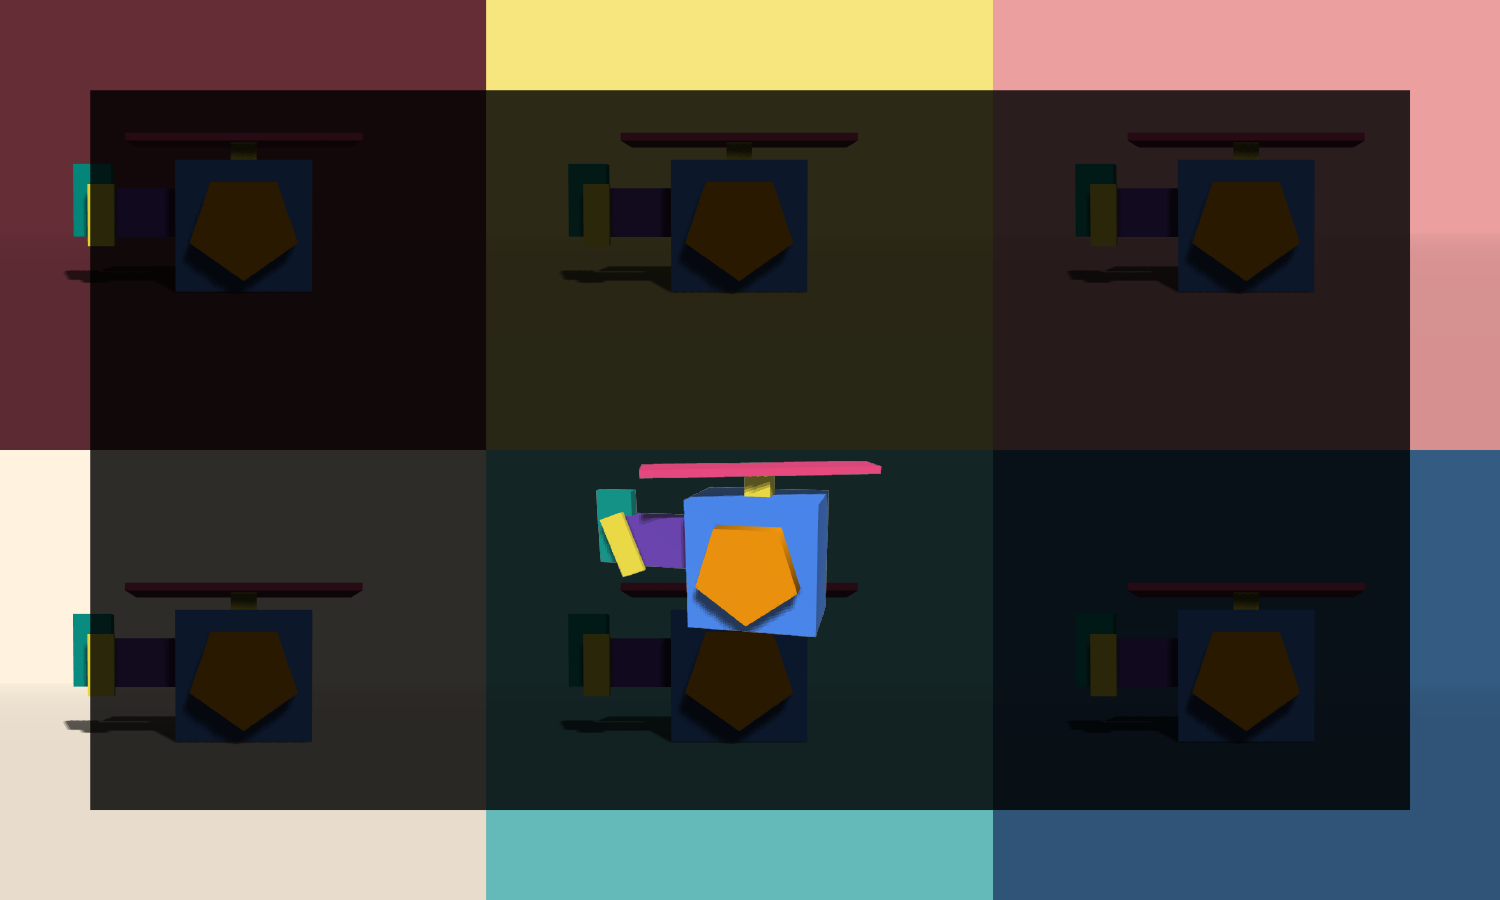
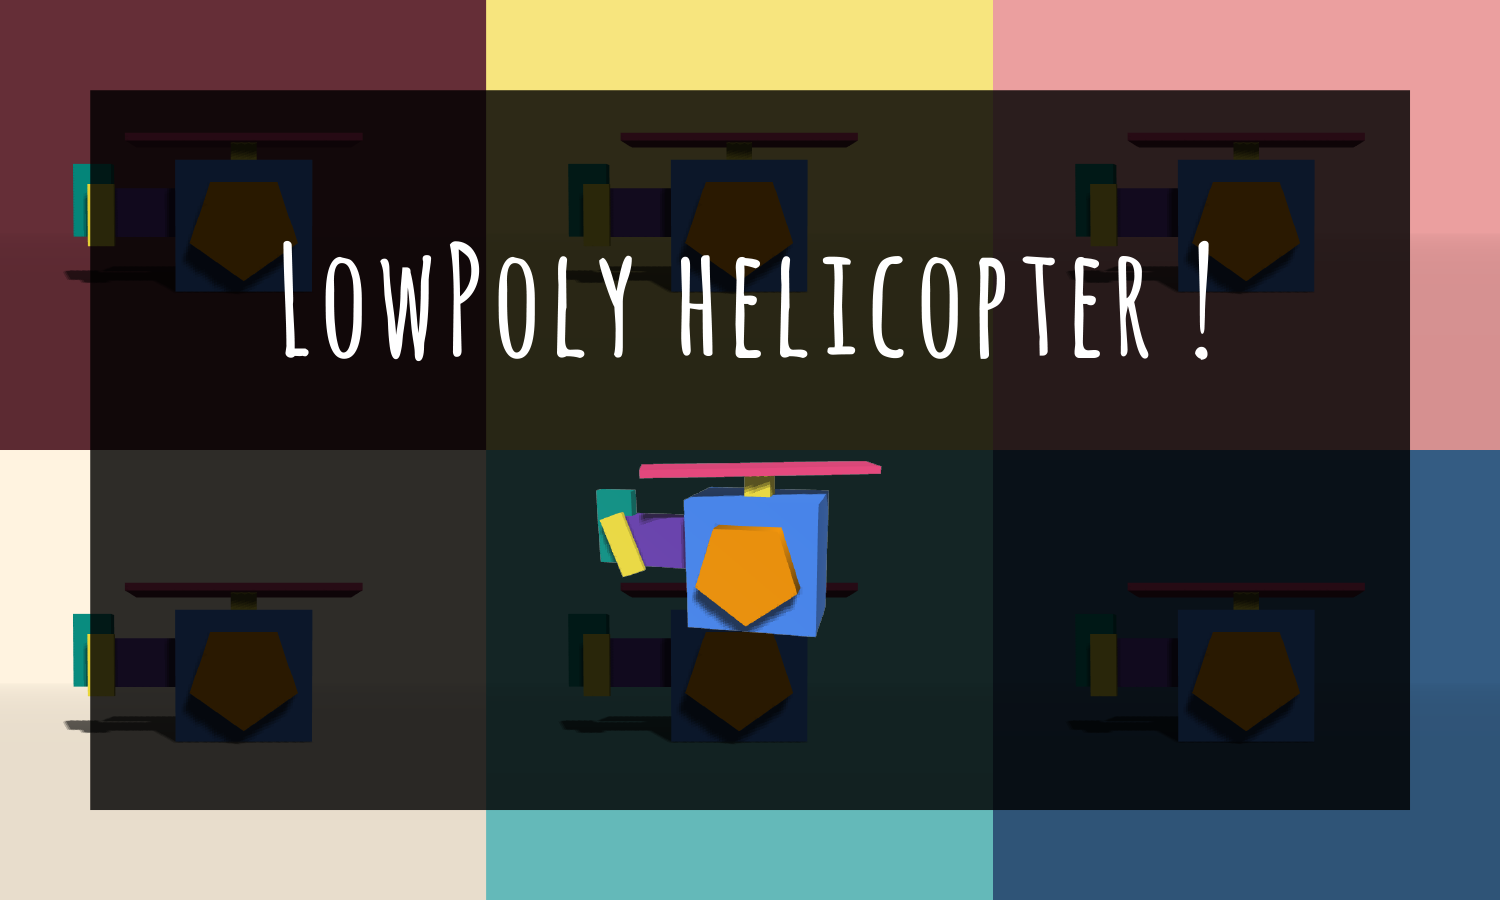
final

Changed region(s): [[0.184, 0.28, 0.7667, 0.4044], [0.7973, 0.28, 0.828, 0.4044]]

diff --git a/WebUI/dist/bundle.js b/WebUI/dist/bundle.js
@@ -22606,12 +22606,13 @@
 	        color: '#fff'
 	    },
 	    lowPolyTile: {
-	        fontFamily: 'Amatic SC',
-	        fontStyle: 'normal',
-	        fontWeight: '700',
-	        fontSize: '100px',
-	        lineHeight: '40vw',
-	        letterSpacing: '5px'
+	        position: 'absolute', // very important!
+	        margin: '0 auto',
+	        bottom: '15%',
+	        left: '50%',
+	        transform: 'translate(-50%, 0%)',
+	        maxWidth: '800px',
+	        border: '0 none'
 	    },
 	    ///////////////////////////////////////////////////////////////
 	    web3DBackground: (_web3DBackground = {
@@ -22953,11 +22954,8 @@
 	                            _react2.default.createElement(
 	                                'div',
 	                                { style: styles.lowPolyTile },
-	                                'Lowpoly Helicopter!'
-	                            ),
-	                            _react2.default.createElement('br', null),
-	                            _react2.default.createElement('br', null),
-	                            _react2.default.createElement(_RaisedButton2.default, { label: 'DEMO', primary: true, style: { margin: 20 }, href: 'https://iceleaf97.github.io/NewWebsite/LowPolyHelicopter/LowPolyHelicopter.html' })
+	                                _react2.default.createElement(_RaisedButton2.default, { label: 'DEMO', primary: true, style: { margin: 20 }, href: 'https://iceleaf97.github.io/NewWebsite/LowPolyHelicopter/LowPolyHelicopter.html' })
+	                            )
 	                        ),
 	                        _react2.default.createElement('div', { style: { width: '100vw', height: '5vh', backgroundColor: '#000' } })
 	                    ),
@@ -22971,11 +22969,8 @@
 	                            _react2.default.createElement(
 	                                'div',
 	                                { style: styles.lowPolyTile },
-	                                'Lowpoly Helicopter!'
-	                            ),
-	                            _react2.default.createElement('br', null),
-	                            _react2.default.createElement('br', null),
-	                            _react2.default.createElement(_RaisedButton2.default, { label: 'DEMO', primary: true, style: { margin: 20 }, href: 'https://iceleaf97.github.io/NewWebsite/LowPolyHelicopter/LowPolyHelicopter.html' })
+	                                _react2.default.createElement(_RaisedButton2.default, { label: 'DEMO', primary: true, style: { margin: 20 }, href: 'https://iceleaf97.github.io/NewWebsite/LowPolyHelicopter/LowPolyHelicopter.html' })
+	                            )
 	                        ),
 	                        _react2.default.createElement('div', { style: { width: '100vw', height: '2.5vh', backgroundColor: '#000' } })
 	                    )
@@ -22990,11 +22985,8 @@
 	                        _react2.default.createElement(
 	                            'div',
 	                            { style: styles.lowPolyTile },
-	                            'Lowpoly Helicopter!'
-	                        ),
-	                        _react2.default.createElement('br', null),
-	                        _react2.default.createElement('br', null),
-	                        _react2.default.createElement(_RaisedButton2.default, { label: 'DEMO', primary: true, style: { margin: 12 }, href: 'https://iceleaf97.github.io/NewWebsite/LowPolyHelicopter/LowPolyHelicopter.html' })
+	                            _react2.default.createElement(_RaisedButton2.default, { label: 'DEMO', primary: true, style: { margin: 12 }, href: 'https://iceleaf97.github.io/NewWebsite/LowPolyHelicopter/LowPolyHelicopter.html' })
+	                        )
 	                    ),
 	                    _react2.default.createElement('div', { style: { width: '100vw', height: '5vh', backgroundColor: '#000' } })
 	                ),
